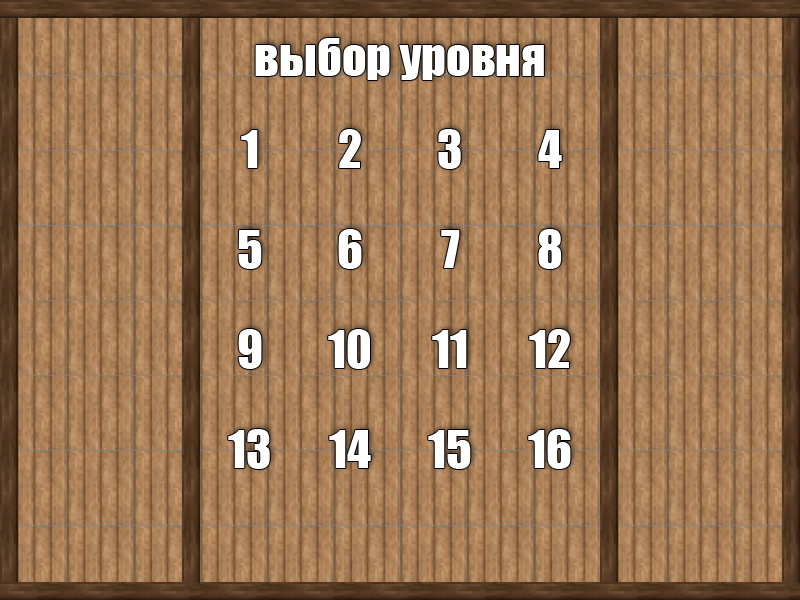
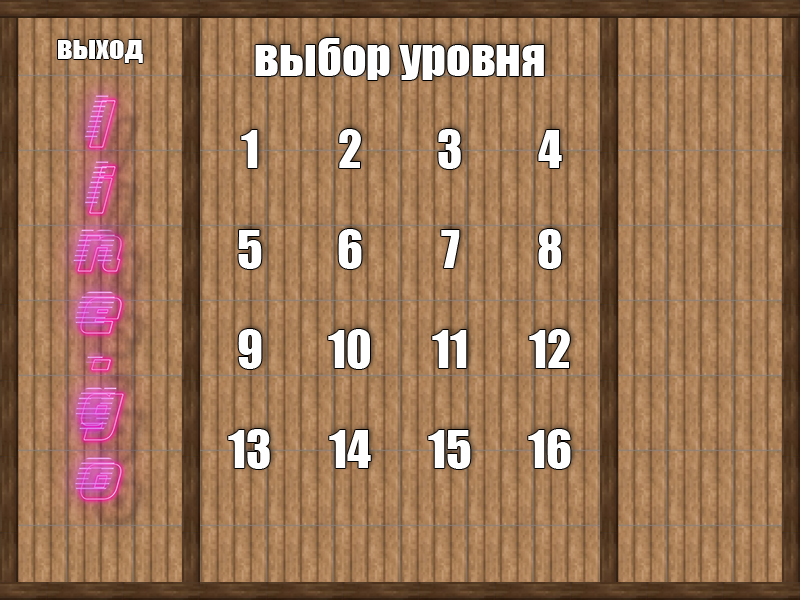
Добавление долгожданной анимации блоков и переработка дизайна

Changed region(s): [[0.0625, 0.15, 0.1875, 0.87], [0.0625, 0.06, 0.1875, 0.12]]

diff --git a/play.py b/play.py
@@ -5,7 +5,7 @@ import random
 
 # ________________________________________
 pygame.init()
-pygame.display.set_caption('')
+pygame.display.set_caption('Line-go')
 size = width, height = 800, 600
 screen = pygame.display.set_mode(size)
 # ________________________________________
@@ -186,6 +186,41 @@ class InputBox:
         pygame.draw.rect(screen, self.color, self.rect, 2)
 
 
+class AnimatedSprite(pygame.sprite.Sprite):
+    def __init__(self, sheet, columns, rows):
+        super().__init__()
+        self.frames = []
+        self.cut_sheet(sheet, columns, rows)
+        self.cur_frame = 0
+        self.image = self.frames[self.cur_frame]
+
+    def cut_sheet(self, sheet, columns, rows):
+        self.rect = pygame.Rect(0, 0, sheet.get_width() // columns,
+                                sheet.get_height() // rows)
+        for j in range(rows):
+            for i in range(columns):
+                frame_location = (self.rect.w * i, self.rect.h * j)
+                self.frames.append(sheet.subsurface(pygame.Rect(
+                    frame_location, self.rect.size)))
+
+    def update(self, x, y):
+        fon = load_image('природная тема.png')
+        for i in range(10):
+            self.image = self.frames[i]
+            pygame.display.flip()
+            screen.blit(fon, (0, 0))
+            all_sprites.draw(screen)
+            screen.blit(self.image, (x, y))
+            pygame.display.flip()
+            clock.tick(50)
+        screen.blit(fon, (0, 0))
+        all_sprites.draw(screen)
+        pygame.display.flip()
+
+
+Animate_sprites = [AnimatedSprite(load_image('анимация1.png'), 5, 2), AnimatedSprite(load_image('анимация2.png'), 5, 2)]
+
+
 class Brick(pygame.sprite.Sprite):
     def __init__(self, tile_type, pos_x, pos_y):
         super().__init__(all_sprites)
@@ -204,9 +239,16 @@ class Brick(pygame.sprite.Sprite):
     def get_color(self):
         return self.color
 
+    def animation(self):
+        if self.color == 1:
+            Animate_sprites[0].update(100 * self.x + 240, 100 * self.y + 40)
+        else:
+            Animate_sprites[1].update(100 * self.x + 240, 100 * self.y + 40)
+
     def switch_color(self):
         self.color = (self.color + 1) % 2
         self.image = BRICK_COLORS[self.color]
+        self.animation()
 
 
 class SystemBricks(pygame.sprite.Sprite):
@@ -241,11 +283,7 @@ class Board:
                 self.board[y][x] = Brick(setup[y][x], x, y)
 
     def on_click(self, cell):
-        for i in range(5):
-            self.board[i][cell[0]].switch_color()
-            self.board[cell[1]][i].switch_color()
-            self.board_cells[i][cell[0]] = self.board[i][cell[0]].get_color()
-            self.board_cells[cell[1]][i] = self.board[cell[1]][i].get_color()
+
         self.board[cell[1]][cell[0]].switch_color()
         self.board_cells[cell[1]][cell[0]] = self.board[cell[1]][cell[0]].get_color()
 
@@ -404,7 +442,7 @@ def level_completed_animation():
 def level_window(lvl):
     level_setup = load_level('lvl' + lvl + '.txt')  # загрузка уровня из файла
 
-    fon = load_image('природная тема.jpg')
+    fon = load_image('природная тема.png')
     screen.blit(fon, (0, 0))
 
     board = Board(5, 5, level_setup)
@@ -414,7 +452,11 @@ def level_window(lvl):
             if event.type == pygame.QUIT:
                 terminate()
             if board.is_win():
+                all_sprites.draw(screen)
+                pygame.display.flip()
+                clock.tick(FPS)
                 win_sound.play()
+                pygame.time.wait(100)
                 level_completed_animation()
                 return
             if event.type == pygame.MOUSEBUTTONDOWN:
